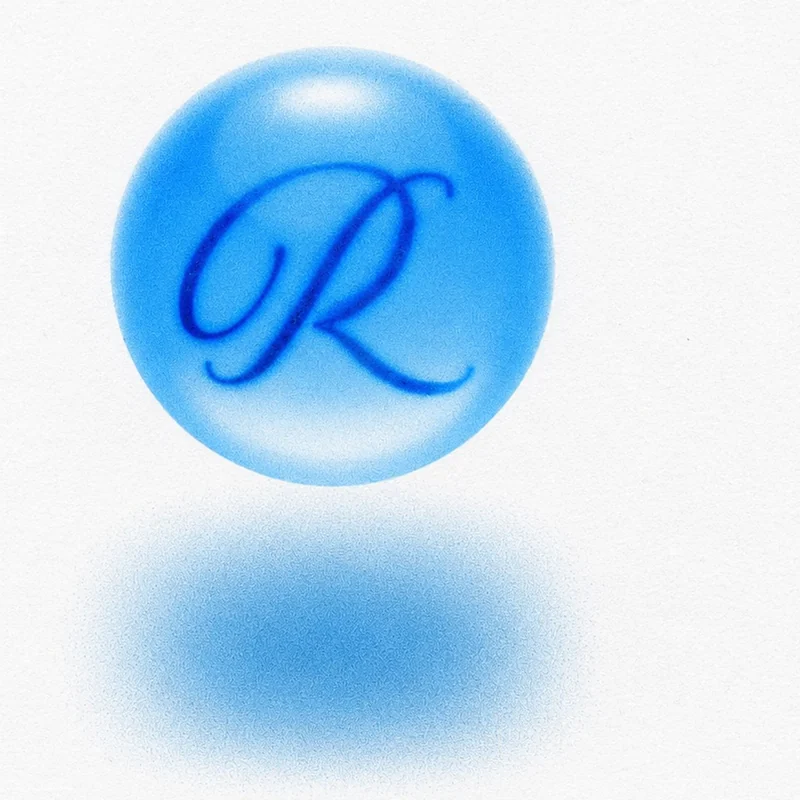
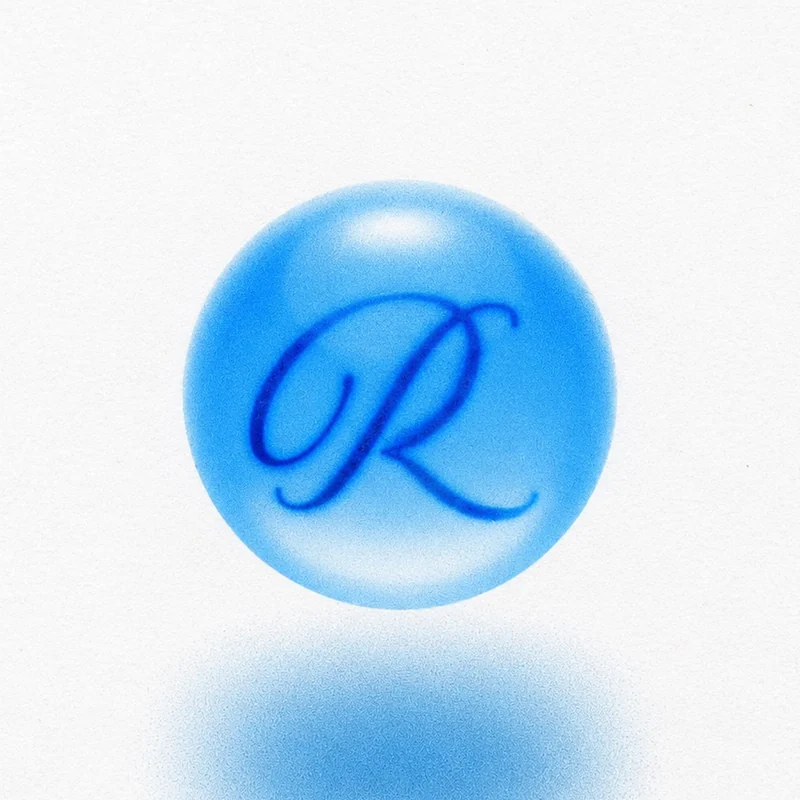
fix: 异想集头像居中、数字分身回到右下角悬浮球
- 异想集头像：之前把裁切框对准了「球体+投影」的中心，球体在方块里偏上偏左；
  现在对准球体本体（实测 x 627 / y 530），导出后球体中心 ≈ 画布中心 400,400
  （放大比例保持不变：整幅 1254 裁 900 的方框 → 800×800，球体约占 54% 画面）
- 数字分身从页头「资料下载」旁边挪回**右下角悬浮球**（56px，right/bottom 24px，
  面板在球上方展开）；页头导航相应去掉那颗球，≤400px 的语言切换文字恢复

diff --git a/src/styles/site.css b/src/styles/site.css
@@ -647,18 +647,23 @@ a.card:hover .card-go {
 .avatar-reset { align-self: flex-start; padding: 0; background: none; border: 0; font: var(--f-meta) / 1 var(--mono); letter-spacing: 0.1em; color: var(--ink-faint); text-decoration: underline; cursor: pointer; }
 .avatar-reset:hover { color: var(--accent); }
 
-/* ---------- chat dock（页头：贴着「下载」的小圆球） ---------- */
+/* ---------- chat dock（右下角悬浮球） ---------- */
 .chat-dock {
-  position: relative;
+  position: fixed;
+  right: 24px;
+  bottom: 24px;
+  z-index: 40;
   display: flex;
-  align-items: center;
+  flex-direction: column;
+  align-items: flex-end;
+  gap: var(--s-3);
 }
 .chat-ball {
   display: inline-flex;
   align-items: center;
   justify-content: center;
-  width: 36px;
-  height: 36px;
+  width: 56px;
+  height: 56px;
   color: var(--paper);
   background: var(--accent);
   border: 0;
@@ -667,18 +672,14 @@ a.card:hover .card-go {
   box-shadow: 0 12px 30px rgba(20, 22, 26, 0.22);
   transition: background-color 0.15s ease, transform 0.15s ease;
 }
-.chat-ball:hover { background: var(--accent-deep); transform: translateY(-1px); }
-.chat-ball svg { width: 17px; height: 17px; }
+.chat-ball:hover { background: var(--accent-deep); transform: translateY(-2px); }
+.chat-ball svg { width: 22px; height: 22px; }
 .chat-panel {
-  /* 挂在圆球下方（.chat-dock 是 position: relative），跟 .dl-panel 同一套做法 */
-  position: absolute;
-  top: calc(100% + 14px);
-  right: 0;
-  z-index: 30;
+  /* 在球上方展开：.chat-dock 是贴底的 fixed 容器，面板放在它里就会往上长 */
   display: flex;
   flex-direction: column;
   gap: var(--s-3);
-  width: min(360px, calc(100vw - 40px));
+  width: min(360px, calc(100vw - 48px));
   max-height: min(72vh, 560px);
   /* 卡片变成长回答时可能顶到 max-height：让它内部滚动，不要溢出到页面上 */
   overflow-y: auto;
@@ -909,11 +910,12 @@ a.dl-action:hover { color: var(--accent); border-color: var(--accent); backgroun
   .foot-bottom { flex-direction: column; align-items: flex-start; gap: 8px; }
   .logo-row { grid-template-columns: repeat(2, minmax(0, 1fr)); }
   .logo-cell { min-height: 72px; }
+  /* 悬浮球贴边一点，面板干脆占满窄屏 */
+  .chat-dock { right: 16px; bottom: 16px; }
+  .chat-panel { width: calc(100vw - 32px); }
 }
-/* 320–400px 的小屏：语言切换只留地球图标，圆球再小一号。
-   这两项加起来腾出的宽度，正好让「ENID + 图标 + 四项导航 + 下载 + 数字分身」一行放得下。 */
+/* 320–400px 的小屏：语言切换只留地球图标 —— 腾出的宽度够「ENID + 图标 +
+   四项导航 + 下载」一行放得下（悬浮球已经不在页头了，不用再缩它） */
 @media (max-width: 400px) {
   .lang-switch span { display: none; }
-  .chat-ball { width: 32px; height: 32px; }
-  .chat-ball svg { width: 15px; height: 15px; }
 }

diff --git a/src/App.tsx b/src/App.tsx
@@ -5,6 +5,7 @@ import { langFromPath } from './i18n/lang'
 import LangBoot from './i18n/LangBoot'
 import SiteHeader from './components/SiteHeader'
 import SiteFooter from './components/SiteFooter'
+import ChatDock from './components/ChatDock'
 import HomePage from './pages/HomePage'
 import WorkPage from './pages/WorkPage'
 import WorkDetailPage from './pages/WorkDetailPage'
@@ -59,6 +60,8 @@ export default function App() {
           </Routes>
         </main>
         <SiteFooter />
+        {/* 数字分身：右下角悬浮球（2026-10-12 从页头挪回来） */}
+        <ChatDock />
       </div>
     </LocaleProvider>
   )

diff --git a/src/components/SiteHeader.tsx b/src/components/SiteHeader.tsx
@@ -1,7 +1,6 @@
 import { NavLink, Link } from 'react-router-dom'
 import { useContent } from '../data/content'
 import { useHref, useLang } from '../i18n/locale'
-import ChatDock from './ChatDock'
 import DownloadMenu from './DownloadMenu'
 import LangSwitch from './LangSwitch'
 
@@ -37,8 +36,6 @@ export default function SiteHeader() {
             </NavLink>
           ))}
           <DownloadMenu />
-          {/* 数字分身入口：放在「下载」旁边，跟着页头一起吸顶 */}
-          <ChatDock />
         </nav>
       </div>
     </header>
